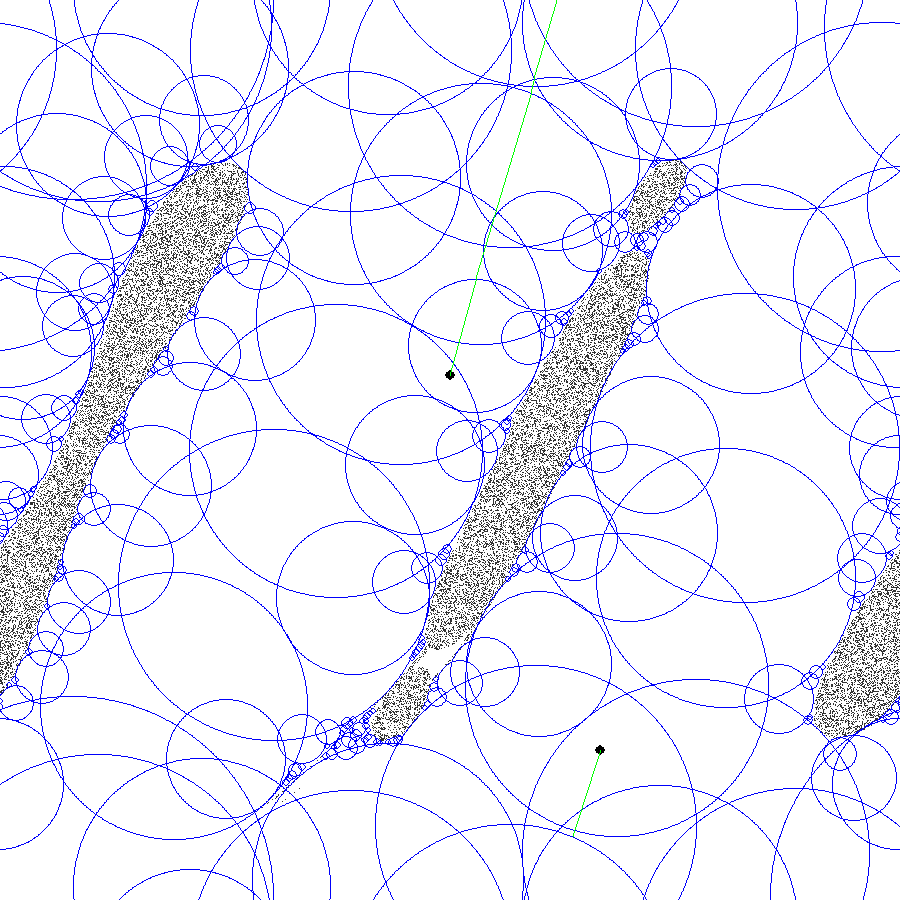
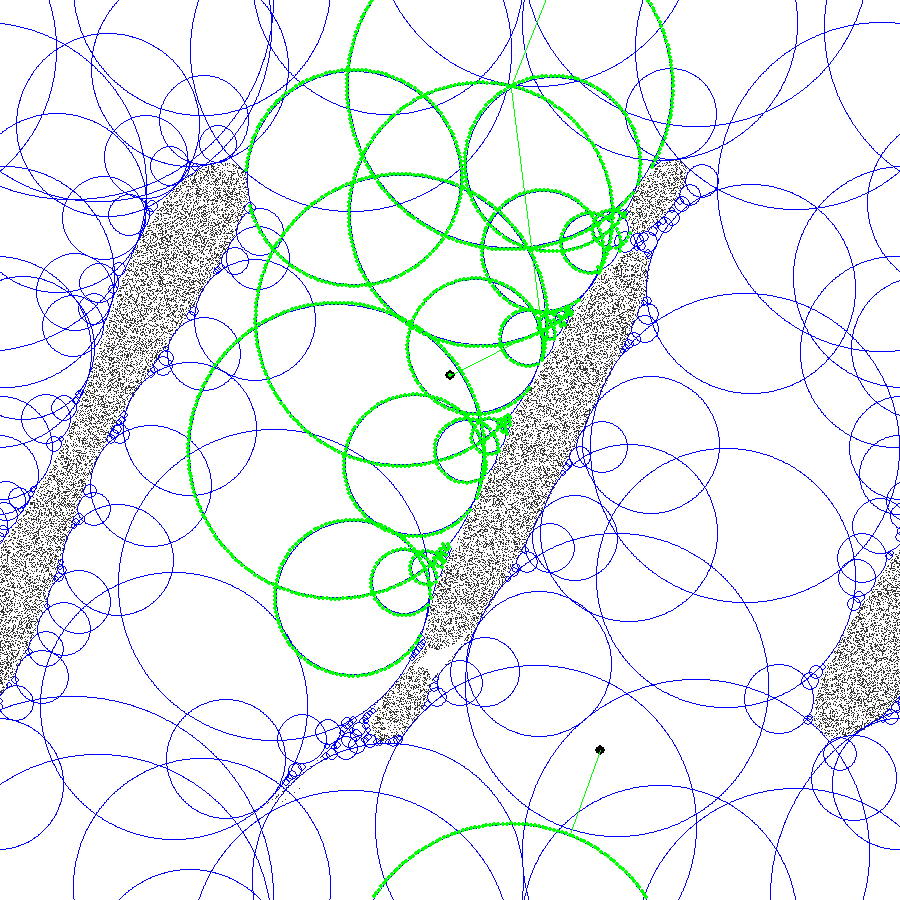
improved a* search

diff --git a/SphereSamplingMotionPlanning/AstarSearcher.py b/SphereSamplingMotionPlanning/AstarSearcher.py
@@ -119,6 +119,76 @@ class AstarSearcher:
 
         return None;
 
+    def astarSearch_Q( self, start, goal, cSpace, imgsurface=None ):
+        def backtrace( node, pardict ):
+            path = []
+            path.append( node )
+            while( pardict.has_key(str(node))):
+                path.append( pardict[str(node)] );
+                node = pardict[str(node)];
+            path.reverse();
+            return path;
+
+        openList = PriorityQueue();
+        closedList = PriorityQueue();
+
+        parentDict = defaultdict();
+        sphereDict = defaultdict();
+        GDict = defaultdict();
+
+        ownerShpere = self.findOwnerSphere( start[0],start[1], cSpace.mScaledWidth, cSpace.mScaledHeight);
+        startNode = AstarNode( start[0], start[1], None, ownerShpere );
+        openList.push( startNode.mPosition,  0 );
+        sphereDict[str(startNode.mPosition)] = ownerShpere;
+        GDict[str(startNode.mPosition)] = 0;
+
+        while( not openList.isEmpty() ):
+            current, curr_mF = openList.pop();
+            if current == goal:
+                return backtrace( current, parentDict );
+            if( imgsurface is not None ):
+                for event in pygame.event.get():
+                    pass;
+                pygame.draw.circle( imgsurface, (0,255,0), (int(current[0]), int(current[1])), 2 );
+                pygame.display.update();
+
+            #openList.remove_task( current );
+            currOwnerSphere = sphereDict[str(current)];
+            successors = self.getSphereBoundaries(currOwnerSphere, goal, cSpace.mScaledWidth, cSpace.mScaledHeight);
+
+            for suc in successors:
+                sucSamp = suc[0];
+                #if( imgsurface is not None ):
+                #    pygame.draw.circle( imgsurface, (255,0,0), (int(sucSamp[0]), int(sucSamp[1])), 2, 1 );
+                #    pygame.display.update();
+                    #sleep(0.01);
+
+                sucOwnerSphere = suc[1];
+                sucNode = AstarNode( sucSamp[0], sucSamp[1], current, sucOwnerSphere )
+                sphereDict[str(sucNode.mPosition)] = sucOwnerSphere;
+                #if sucSamp == goal:
+                #    return backtrace( sucNode );
+                sucNode.mG = GDict[str(current)] + self.distance( sucSamp, current, cSpace.mScaledWidth, cSpace.mScaledHeight );
+                GDict[str(sucNode.mPosition)] = sucNode.mG;
+                sucNode_mH = self.distance( sucSamp, goal, cSpace.mScaledWidth, cSpace.mScaledHeight );
+                sucNode_mF = sucNode.mG + sucNode_mH;
+
+
+                sameOpen = openList.find( sucNode.mPosition );
+                if( sameOpen is not None and sameOpen[0] <= sucNode_mF):
+                    continue;
+                else:
+                    sameClose = closedList.find( sucNode.mPosition );
+                    if( sameClose is not None and sameClose[0] <= sucNode_mF ):
+                        continue;
+                    else:
+                        openList.push( sucNode.mPosition, sucNode_mF );
+                        parentDict[str(sucNode.mPosition)] = current;
+                pass
+            closedList.push( current, curr_mF );
+            pass
+        return None;
+
     def astarSearch( self, start, goal, cSpace, imgsurface=None ):
         """Given a start and goal point, search for an optimal path connecting them"""
 

diff --git a/SphereSamplingMotionPlanning/PriorityQueue.py b/SphereSamplingMotionPlanning/PriorityQueue.py
@@ -3,37 +3,47 @@ import itertools
 from heapq import *
 
 class PriorityQueue:
-	def __init__(self):
-		self.mPriQue = []                    	# list of entries arranged in a heap
-		self.mEntryFinder = {}               	# mapping of tasks to entries
-		self.mREMOVED = '<self.mREMOVED-task>'  # placeholder for a self.mREMOVED task
-		self.mCounter = itertools.count()     	# unique sequence count
+    def __init__(self):
+        self.mPriQue = []                    	# list of entries arranged in a heap
+        self.mEntryFinder = {}               	# mapping of tasks to entries
+        self.mREMOVED = '<self.mREMOVED-task>'  # placeholder for a self.mREMOVED task
+        self.mCounter = itertools.count()     	# unique sequence count
+        
+    def push(self, task, priority):
+        'Add a new task or update the priority of an existing task'
+        if task in self.mEntryFinder:
+            self.remove_task(task)
+        count = next(self.mCounter)
+        entry = [priority, count, task]
+        self.mEntryFinder[task] = entry
+        heappush(self.mPriQue, entry)
 
-	def push(self, task, priority=0):
-	        'Add a new task or update the priority of an existing task'
-	        if task in self.mEntryFinder:
-	            self.remove_task(task)
-	        count = next(self.mCounter)
-	        entry = [priority, count, task]
-	        self.mEntryFinder[task] = entry
-	        heappush(self.mPriQue, entry)
+    def find(self, task):
+        if task in self.mEntryFinder:
+            return self.mEntryFinder[task];
+        else:
+            return None;
 
-	def remove_task(self, task):
-	        'Mark an existing task as self.mREMOVED.  Raise KeyError if not found.'
-	        entry = self.mEntryFinder.pop(task)
-	        entry[-1] = self.mREMOVED
+    def remove_task(self, task):
+        'Mark an existing task as self.mREMOVED.  Raise KeyError if not found.'
+        entry = self.mEntryFinder.pop(task)
+        entry[-1] = self.mREMOVED
 
-	def pop(self):
-	        'Remove and return the lowest priority task. Raise KeyError if empty.'
-	        while self.mPriQue:
-	            priority, count, task = heappop(self.mPriQue)
-	            if task is not self.mREMOVED:
-	                del self.mEntryFinder[task]
-	                return task
-	        raise KeyError('pop from an empty priority queue')
+    def pop(self):
+        'Remove and return the lowest priority task. Raise KeyError if empty.'
+        while self.mPriQue:
+            priority, count, task= heappop(self.mPriQue)
+            if task is not self.mREMOVED:
+                entry = self.mEntryFinder[task];
+                del self.mEntryFinder[task]
+                return task, entry[0];  # task, F
+        raise KeyError('pop from an empty priority queue')
 
-	def isEmpty(self):
-		return len(self.mPriQue) == 0;
+    def isEmpty(self):
+        return len(self.mPriQue) == 0;
+
+    def count(self):
+        return len(self.mPriQue);
 
 """
 pq = PriorityQueue()

diff --git a/SphereSamplingMotionPlanning/Astar2.py b/SphereSamplingMotionPlanning/Astar2.py
@@ -29,7 +29,8 @@ class AstarPlus(object):
 
                 dx = sphere.mSample[0] - other.mSample[0];
                 dy = sphere.mSample[1] - other.mSample[1];
-                if( math.sqrt( dx**2+dy**2 ) <= (sphere.mRadius+other.mRadius) ):
+                dist = math.sqrt( dx**2+dy**2 );
+                if( dist < (sphere.mRadius+other.mRadius) ):
                     # Overlap! Record it in the dictionary
                     self.mOverlapDict[sphere] += [ other ];
 
@@ -78,15 +79,22 @@ class AstarPlus(object):
             current = min(openList, key=lambda inst:inst.mF);
             openList.remove( current );
             if current.mSphere == goalSphere:
-                    return backtrace( current );
+                return backtrace( current );
+            for event in pygame.event.get():
+                pass;
+            pygame.draw.circle( imgsurface, (250,250,0), (int(current.mSphere.mSample[0]),int(current.mSphere.mSample[1])), int(current.mSphere.mRadius), 2);
+            pygame.display.update();
             successors = self.mOverlapDict[current.mSphere];
             #print "current: {0} \towener Sphere: {1}".format(current.mPosition, currOwnerSphere.mSample);
             #print current.mPosition;
             for suc in successors:
                 sucNode = Astar2Node( suc, current )
-                sucNode.mG = current.mG + self.distance( suc.mSample, current.mSphere.mSample ) - current.mSphere.mRadius + suc.mRadius;
-                sucNode.mH = self.distance( suc.mSample, goalSphere.mSample ) - suc.mRadius;
+                sucNode.mG = current.mG + self.distance( suc.mSample, current.mSphere.mSample );
+                sucNode.mH = self.distance( suc.mSample, goal ) + suc.mRadius;
                 sucNode.mF = sucNode.mG + sucNode.mH;
+                print "{0}\t{1}\t{2}".format(sucNode.mG,sucNode.mH,sucNode.mF);
+
+
 
                 same = filter( lambda inst: inst.mSphere== suc , openList)
 

diff --git a/SphereSamplingMotionPlanning/SphereSamplingMotionPlanning.py b/SphereSamplingMotionPlanning/SphereSamplingMotionPlanning.py
@@ -1,6 +1,7 @@
 import pygame, sys, os, datetime
 from pygame.locals import *
 
+
 from GameWorld import *
 from CSpaceWorld import *
 from RobotArm import *
@@ -89,9 +90,13 @@ def main():
     goal_x, goal_y = cSpaceWorld.map2ScaledSpace( goal[0], goal[1] );
     pygame.draw.circle(CSpaceSurface, (0,0,0), (int(start_x),int(start_y)), 5);
     pygame.draw.circle(CSpaceSurface, (0,0,0), (int(goal_x), int(goal_y)), 5);
-    #path = astarSearcher.astarSearch( (start_x,start_y), (goal_x, goal_y), cSpaceWorld, CSpaceSurface );
-    #astarSearcher.savePath(path);
-    path = astarSearcher.loadPath("path.txt");
+
+    before = datetime.datetime.now();
+    path = astarSearcher.astarSearch_Q( (start_x,start_y), (goal_x, goal_y), cSpaceWorld, CSpaceSurface );
+    now = datetime.datetime.now();
+    print now - before;
+    astarSearcher.savePath(path);
+    #path = astarSearcher.loadPath("path.txt");
     if path is not None:
         for i in range( 1, len(path) ):
             drawLine( path[i-1], path[i], CSpaceSurface, (0,255,0), cSpaceWorld.mScaledWidth, cSpaceWorld.mScaledHeight )
